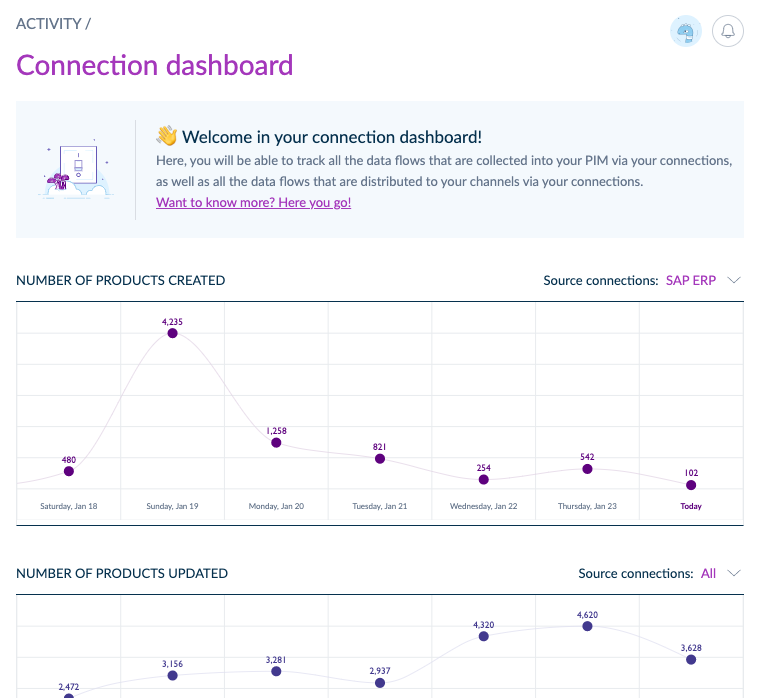
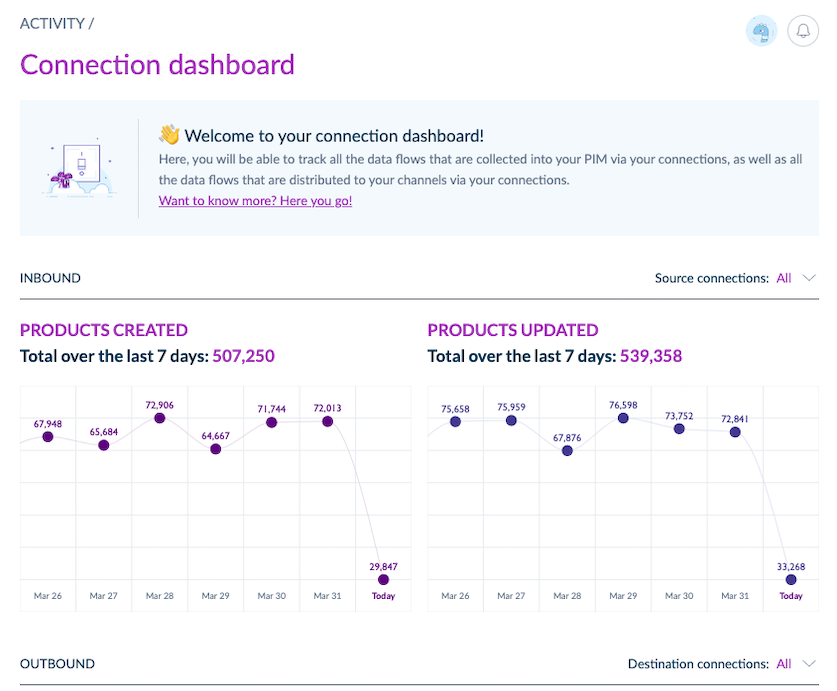
Add screenshots

diff --git a/content/md/connectivity/connection-dashboard.md b/content/md/connectivity/connection-dashboard.md
@@ -25,14 +25,10 @@ In this dashboard, for now, you can monitor both your source and destination con
 # Source connection monitoring
 In this dashboard, you can easily track the following indicators from your source connections:
 
-- the number of products that were **created** over the last 7 days for each source,
-![Number of products created](../img/number-of-products-created.png)
-- the number of products that were **created** over the last 7 days by all your sources,
-![Number of products created](../img/number-of-products-created-all-connections.png)
-- the number of products that were **updated** over the last 7 days for each source,
-![Number of products updated](../img/number-of-products-updated.png)
-- the number of products that were **updated** over the last 7 days by all your sources.
-![Number of products updated](../img/number-of-products-updated-all-connections.png)
+- the number of products that were **created** and **updated** over the last 7 days for each source,
+![Number of products created by each source](../img/number-of-products-created-updated.png)
+- the number of products that were **created** and **updated** over the last 7 days by all your sources.
+![Number of products created by all sources](../img/number-of-products-created-updated-all-connections.png)
 
 You can easily switch the source connection you want to monitor by clicking on the following dropdown.
 
@@ -41,9 +37,9 @@ You can easily switch the source connection you want to monitor by clicking on t
 # Destination connection monitoring
 In this dashboard, you can easily track the following indicators from your destination connections:
 - the number of products **sent** to each of your destinations over the last 7 days,
-![Number of products created](../img/number-of-products-sent.png)
+![Number of products sent](../img/number-of-products-sent.png)
 - the total number of products **sent** to all of your destinations over the last 7 days.
-![Number of products created](../img/number-of-products-sent-all-connections.png)
+![Number of products sent](../img/number-of-products-sent-all-connections.png)
 
 You can easily switch the destination connection you want to monitor by clicking on the following dropdown.
 

diff --git a/content/md/connectivity/manage-your-connections.md b/content/md/connectivity/manage-your-connections.md
@@ -102,7 +102,7 @@ That being said, even in this case, we advise you to choose between the two opti
 For each connection, you can choose whether you want to track it in the [connection dashboard](connection-dashboard.html).  
 To do so, select the `Track in the connection dashboard` checkbox, in the connection setting screen of the connection you want to track.
 
-![Track checkbox](track-checkbox.html)
+![Track checkbox](../img/track-checkbox.png)
 
 ::: warning
 `Others` connections can't be tracked. Indeed, we wouldn't know what to track about them.  
